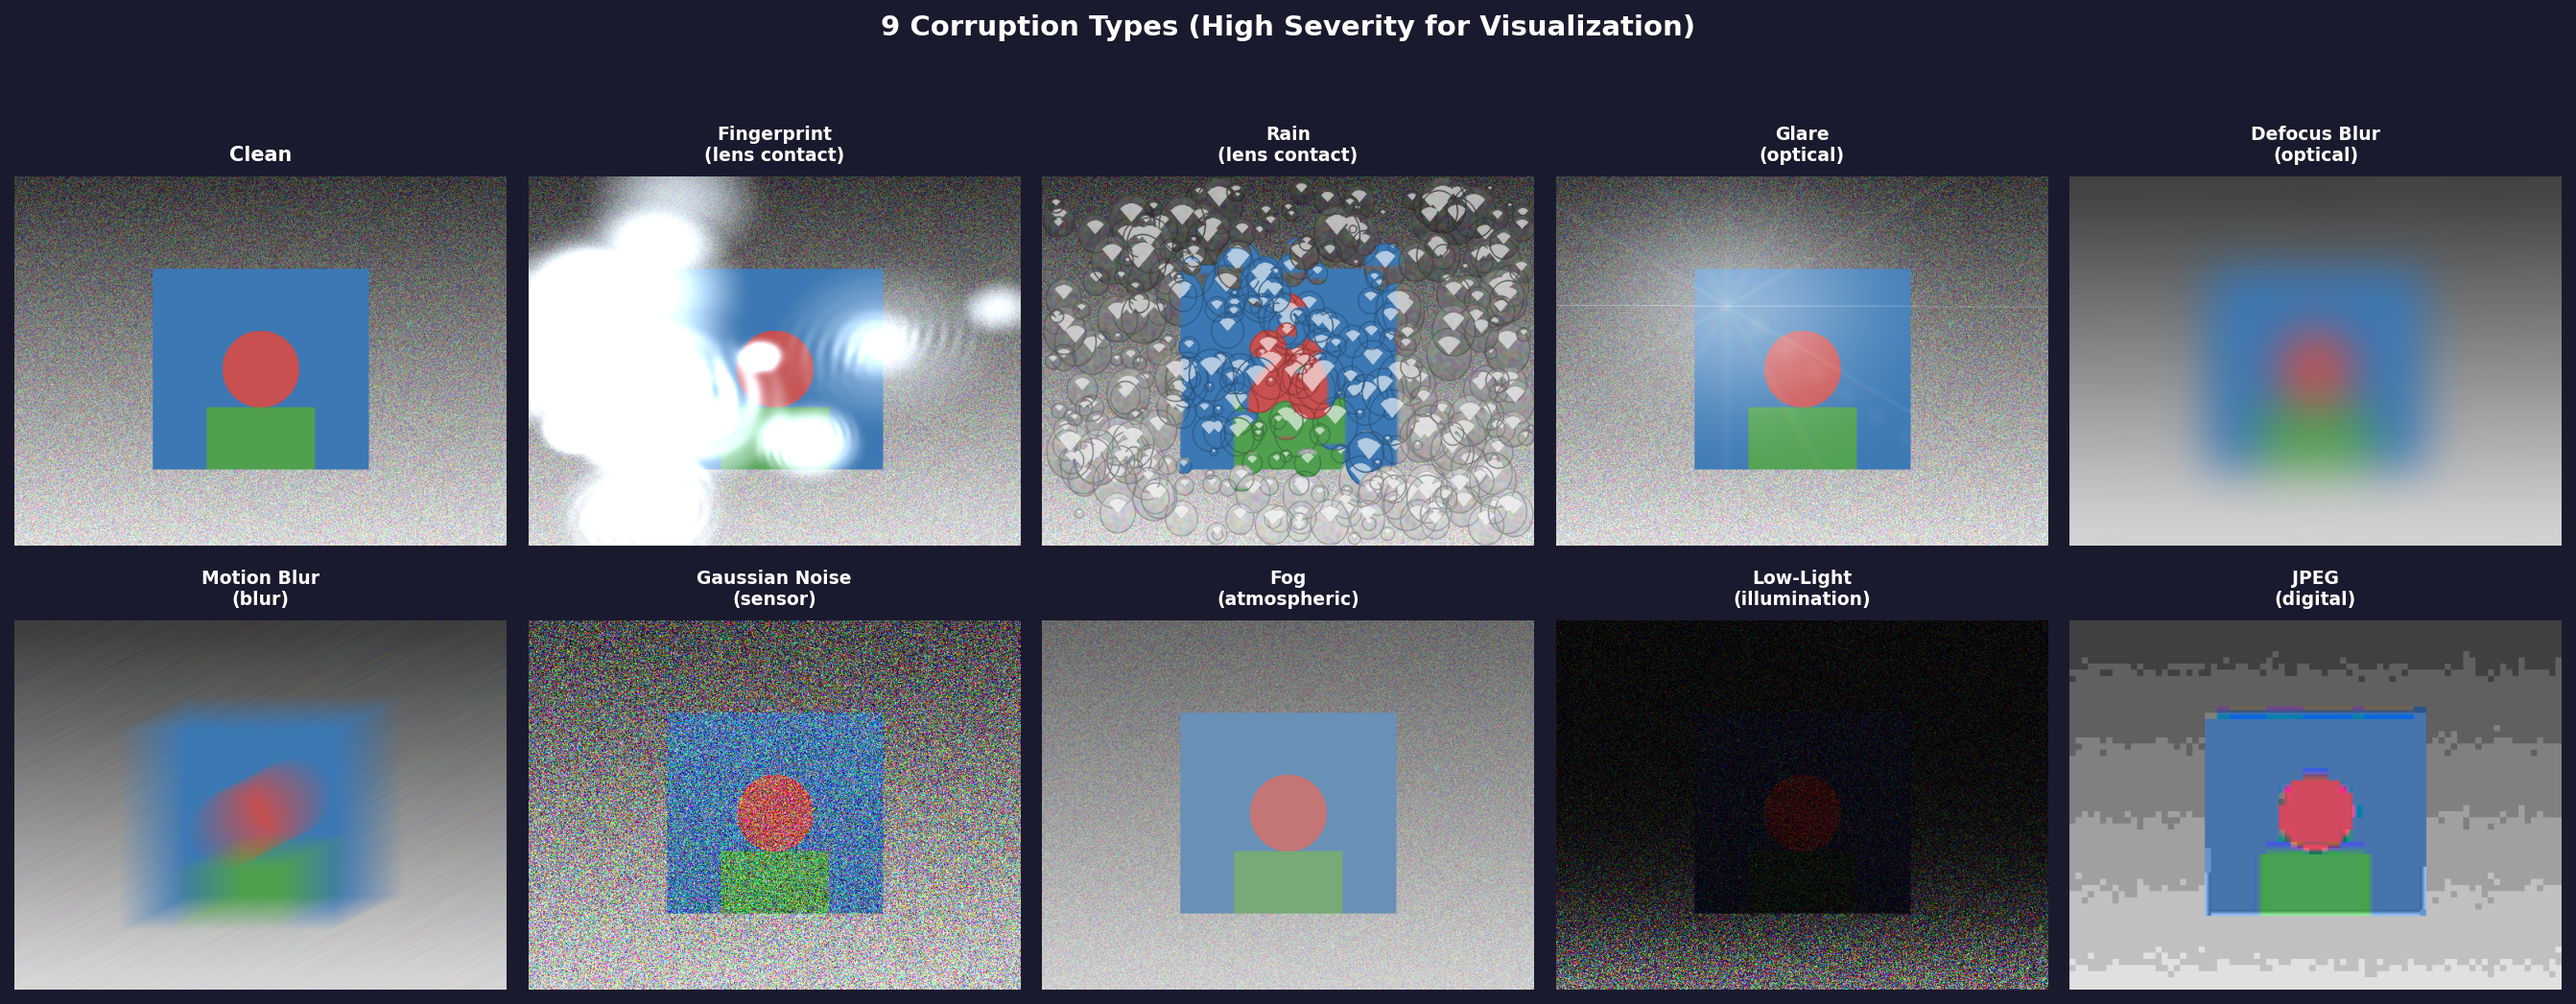
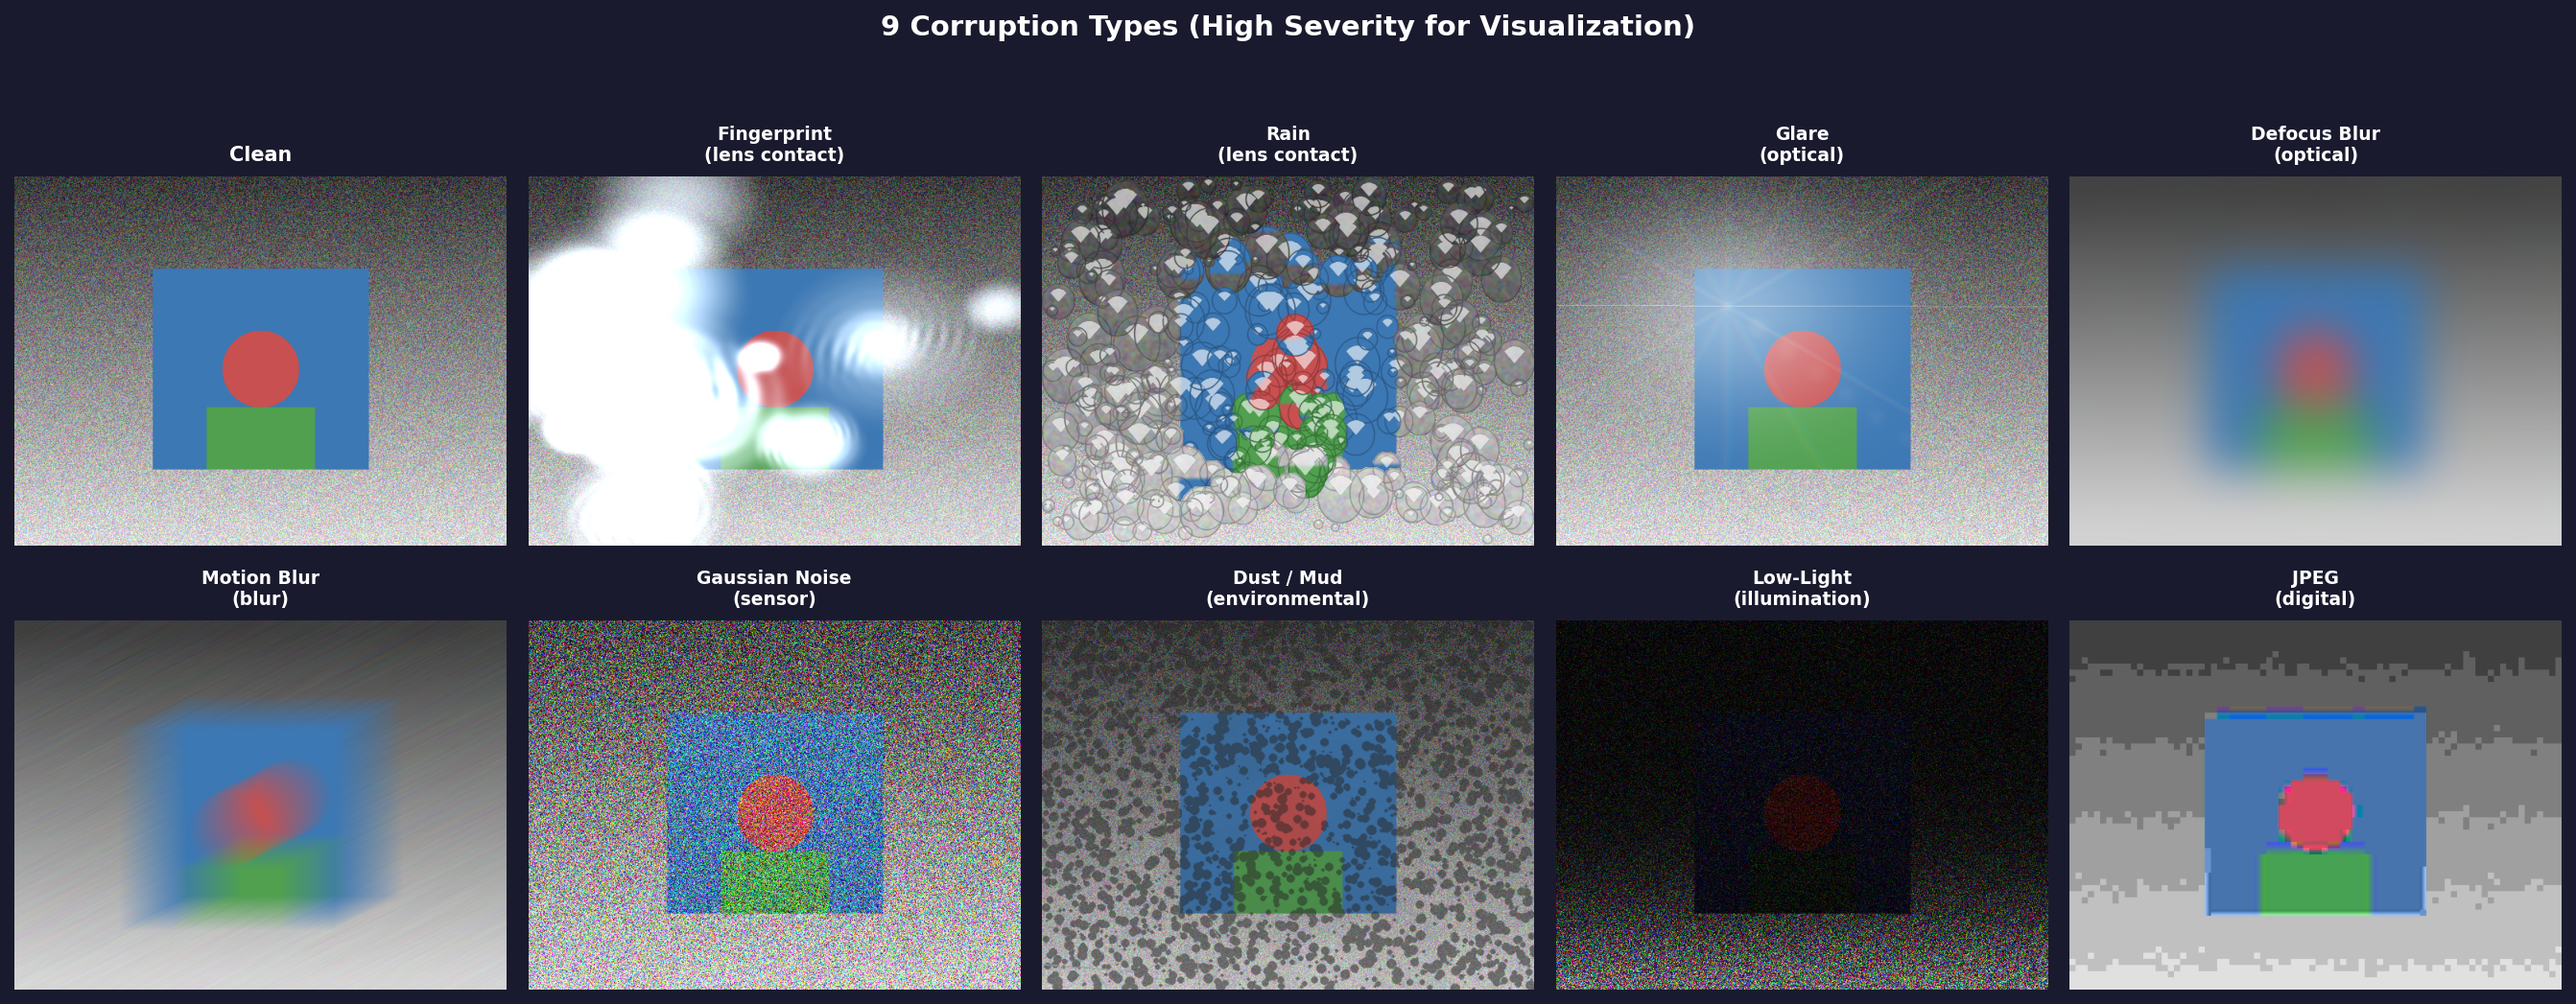
Replace fog with dust/mud corruption from camera_occlusion library
Fog at any visible severity was either pure white or indistinguishable
from clean. Dust/mud (specks, scratches, splotchy haze) is more
realistic for robot cameras in dirty environments and clearly visible
in the corruption grid.

- New DustCameraModel wrapping camera_occlusion.Dust
- Updated factory, LOO defaults, feature similarity, README

Changed region(s): [[0.4019, 0.1834, 0.6182, 1.0]]

diff --git a/adversarial_dust/dust_camera_model.py b/adversarial_dust/dust_camera_model.py
@@ -1,0 +1,95 @@
+"""Dust/mud occlusion model adapter for camera_occlusion library.
+
+Wraps the Dust class from camera_occlusion (specks, scratches, splotches)
+to match the OcclusionModel interface. Simulates accumulated dirt, mud,
+and debris on a camera lens.
+
+Replaces the synthetic fog model as a more realistic atmospheric/environmental
+corruption for robot cameras in dusty/dirty environments.
+"""
+
+import numpy as np
+
+from adversarial_dust.occlusion_model import ContaminationMode, OcclusionModel
+
+_Dust = None
+
+
+def _get_dust_class():
+    global _Dust
+    if _Dust is None:
+        from camera_occlusion.camera_noise import Dust
+        _Dust = Dust
+    return _Dust
+
+
+# Parameter indices
+_IDX_NUM_SPECKS = 0      # speck count scale [0, 1]
+_IDX_SPECK_OPACITY = 1   # speck opacity [0.1, 0.8]
+_IDX_SPLOTCH_OPACITY = 2 # splotch opacity [0.05, 0.5]
+_IDX_SCRATCH_OPACITY = 3 # scratch opacity [0.1, 0.5]
+NUM_DUST_PARAMS = 4
+
+
+class DustCameraModel(OcclusionModel):
+    """Adapter for camera_occlusion Dust effect.
+
+    Simulates specks, scratches, and splotchy haze on the camera lens.
+    budget_level scales the maximum number of specks and scratches.
+    """
+
+    def __init__(self, budget_level: float, max_specks: int = 3000,
+                 max_scratches: int = 15, image_shape: tuple = (480, 640)):
+        self.budget_level = budget_level
+        self.max_specks = max_specks
+        self.max_scratches = max_scratches
+        self.image_h = image_shape[0]
+        self.image_w = image_shape[1] if len(image_shape) > 1 else image_shape[0]
+        self.n_params = NUM_DUST_PARAMS
+        self.contamination_mode = ContaminationMode.POST_PROCESS
+
+        self.lower_bounds = np.array([0.0, 0.1, 0.05, 0.1])
+        self.upper_bounds = np.array([1.0, 0.8, 0.5, 0.5])
+
+    def _parse_params(self, params: np.ndarray):
+        speck_scale = np.clip(params[_IDX_NUM_SPECKS], 0.0, 1.0)
+        speck_opacity = np.clip(params[_IDX_SPECK_OPACITY], 0.1, 0.8)
+        splotch_opacity = np.clip(params[_IDX_SPLOTCH_OPACITY], 0.05, 0.5)
+        scratch_opacity = np.clip(params[_IDX_SCRATCH_OPACITY], 0.1, 0.5)
+
+        num_specks = max(1, int(speck_scale * self.max_specks * self.budget_level))
+        num_scratches = max(0, int(speck_scale * self.max_scratches * self.budget_level))
+
+        return {
+            "num_specks": num_specks,
+            "speck_radius_range": (1, max(2, int(3 + 4 * self.budget_level))),
+            "speck_opacity": float(speck_opacity),
+            "num_scratches": num_scratches,
+            "scratch_length_range": (10, max(15, int(30 + 120 * self.budget_level))),
+            "scratch_opacity": float(scratch_opacity),
+            "splotch_noise_scale": max(4, int(16 - 8 * self.budget_level)),
+            "splotch_opacity": float(splotch_opacity * self.budget_level),
+        }
+
+    def apply(self, image: np.ndarray, params: np.ndarray,
+              timestep: int = 0) -> np.ndarray:
+        kwargs = self._parse_params(params)
+        dust = _get_dust_class()(**kwargs)
+        return dust.apply(image)
+
+    def get_random_params(self, rng: np.random.Generator) -> np.ndarray:
+        return rng.uniform(self.lower_bounds, self.upper_bounds)
+
+    def get_alpha_mask(self, params: np.ndarray, timestep: int = 0) -> np.ndarray:
+        kwargs = self._parse_params(params)
+        coverage = kwargs["num_specks"] / self.max_specks
+        return np.full((self.image_h, self.image_w), coverage, dtype=np.float32)
+
+    def compute_coverage(self, alpha_mask: np.ndarray) -> float:
+        return float(np.mean(alpha_mask > 0.05))
+
+    def get_cma_bounds(self):
+        return self.lower_bounds.copy(), self.upper_bounds.copy()
+
+    def get_cma_x0(self) -> np.ndarray:
+        return (self.lower_bounds + self.upper_bounds) / 2.0

diff --git a/adversarial_dust/envelope_predictor.py b/adversarial_dust/envelope_predictor.py
@@ -69,6 +69,9 @@ def make_occlusion_model(
     elif occlusion_type == "fog":
         from adversarial_dust.digital_corruption import FogModel
         return FogModel(budget_level=budget_level, image_shape=image_shape)
+    elif occlusion_type == "dust_camera":
+        from adversarial_dust.dust_camera_model import DustCameraModel
+        return DustCameraModel(budget_level=budget_level, image_shape=image_shape)
     elif occlusion_type == "low_light":
         from adversarial_dust.digital_corruption import LowLightModel
         return LowLightModel(budget_level=budget_level, image_shape=image_shape)

diff --git a/adversarial_dust/feature_similarity.py b/adversarial_dust/feature_similarity.py
@@ -34,7 +34,7 @@ import numpy as np
 # All 9 corruption types in the LOO study
 ALL_TYPES = [
     "fingerprint", "glare", "rain", "gaussian_noise", "jpeg",
-    "motion_blur", "defocus_blur", "fog", "low_light",
+    "motion_blur", "defocus_blur", "dust_camera", "low_light",
 ]
 
 CATEGORIES = {
@@ -44,7 +44,7 @@ CATEGORIES = {
     "defocus_blur": "Optical",
     "motion_blur": "Blur",
     "gaussian_noise": "Sensor",
-    "fog": "Atmospheric",
+    "dust_camera": "Environmental",
     "low_light": "Illumination",
     "jpeg": "Digital",
 }

diff --git a/adversarial_dust/run_safety_predictor.py b/adversarial_dust/run_safety_predictor.py
@@ -448,7 +448,7 @@ def main():
     parser.add_argument("--loo-types", type=str, nargs="+",
                         default=["fingerprint", "glare", "rain",
                                  "gaussian_noise", "jpeg", "motion_blur",
-                                 "defocus_blur", "fog", "low_light"],
+                                 "defocus_blur", "dust_camera", "low_light"],
                         help="Corruption types for LOO analysis")
 
     # Stage control

diff --git a/README.md b/README.md
@@ -40,7 +40,7 @@ Of the 5 corruption types that cause policy failures, the monitor achieves **mea
 | Optical | Defocus blur | 1 | ImageNet-C |
 | Blur | Motion blur | 2 | ImageNet-C |
 | Sensor | Gaussian noise | 2 | ImageNet-C |
-| Atmospheric | Fog / haze | 2 | ImageNet-C |
+| Environmental | Dust / mud | 4 | camera_occlusion |
 | Illumination | Low-light | 2 | LIBERO-Plus |
 | Digital | JPEG compression | 1 | ImageNet-C |
 
